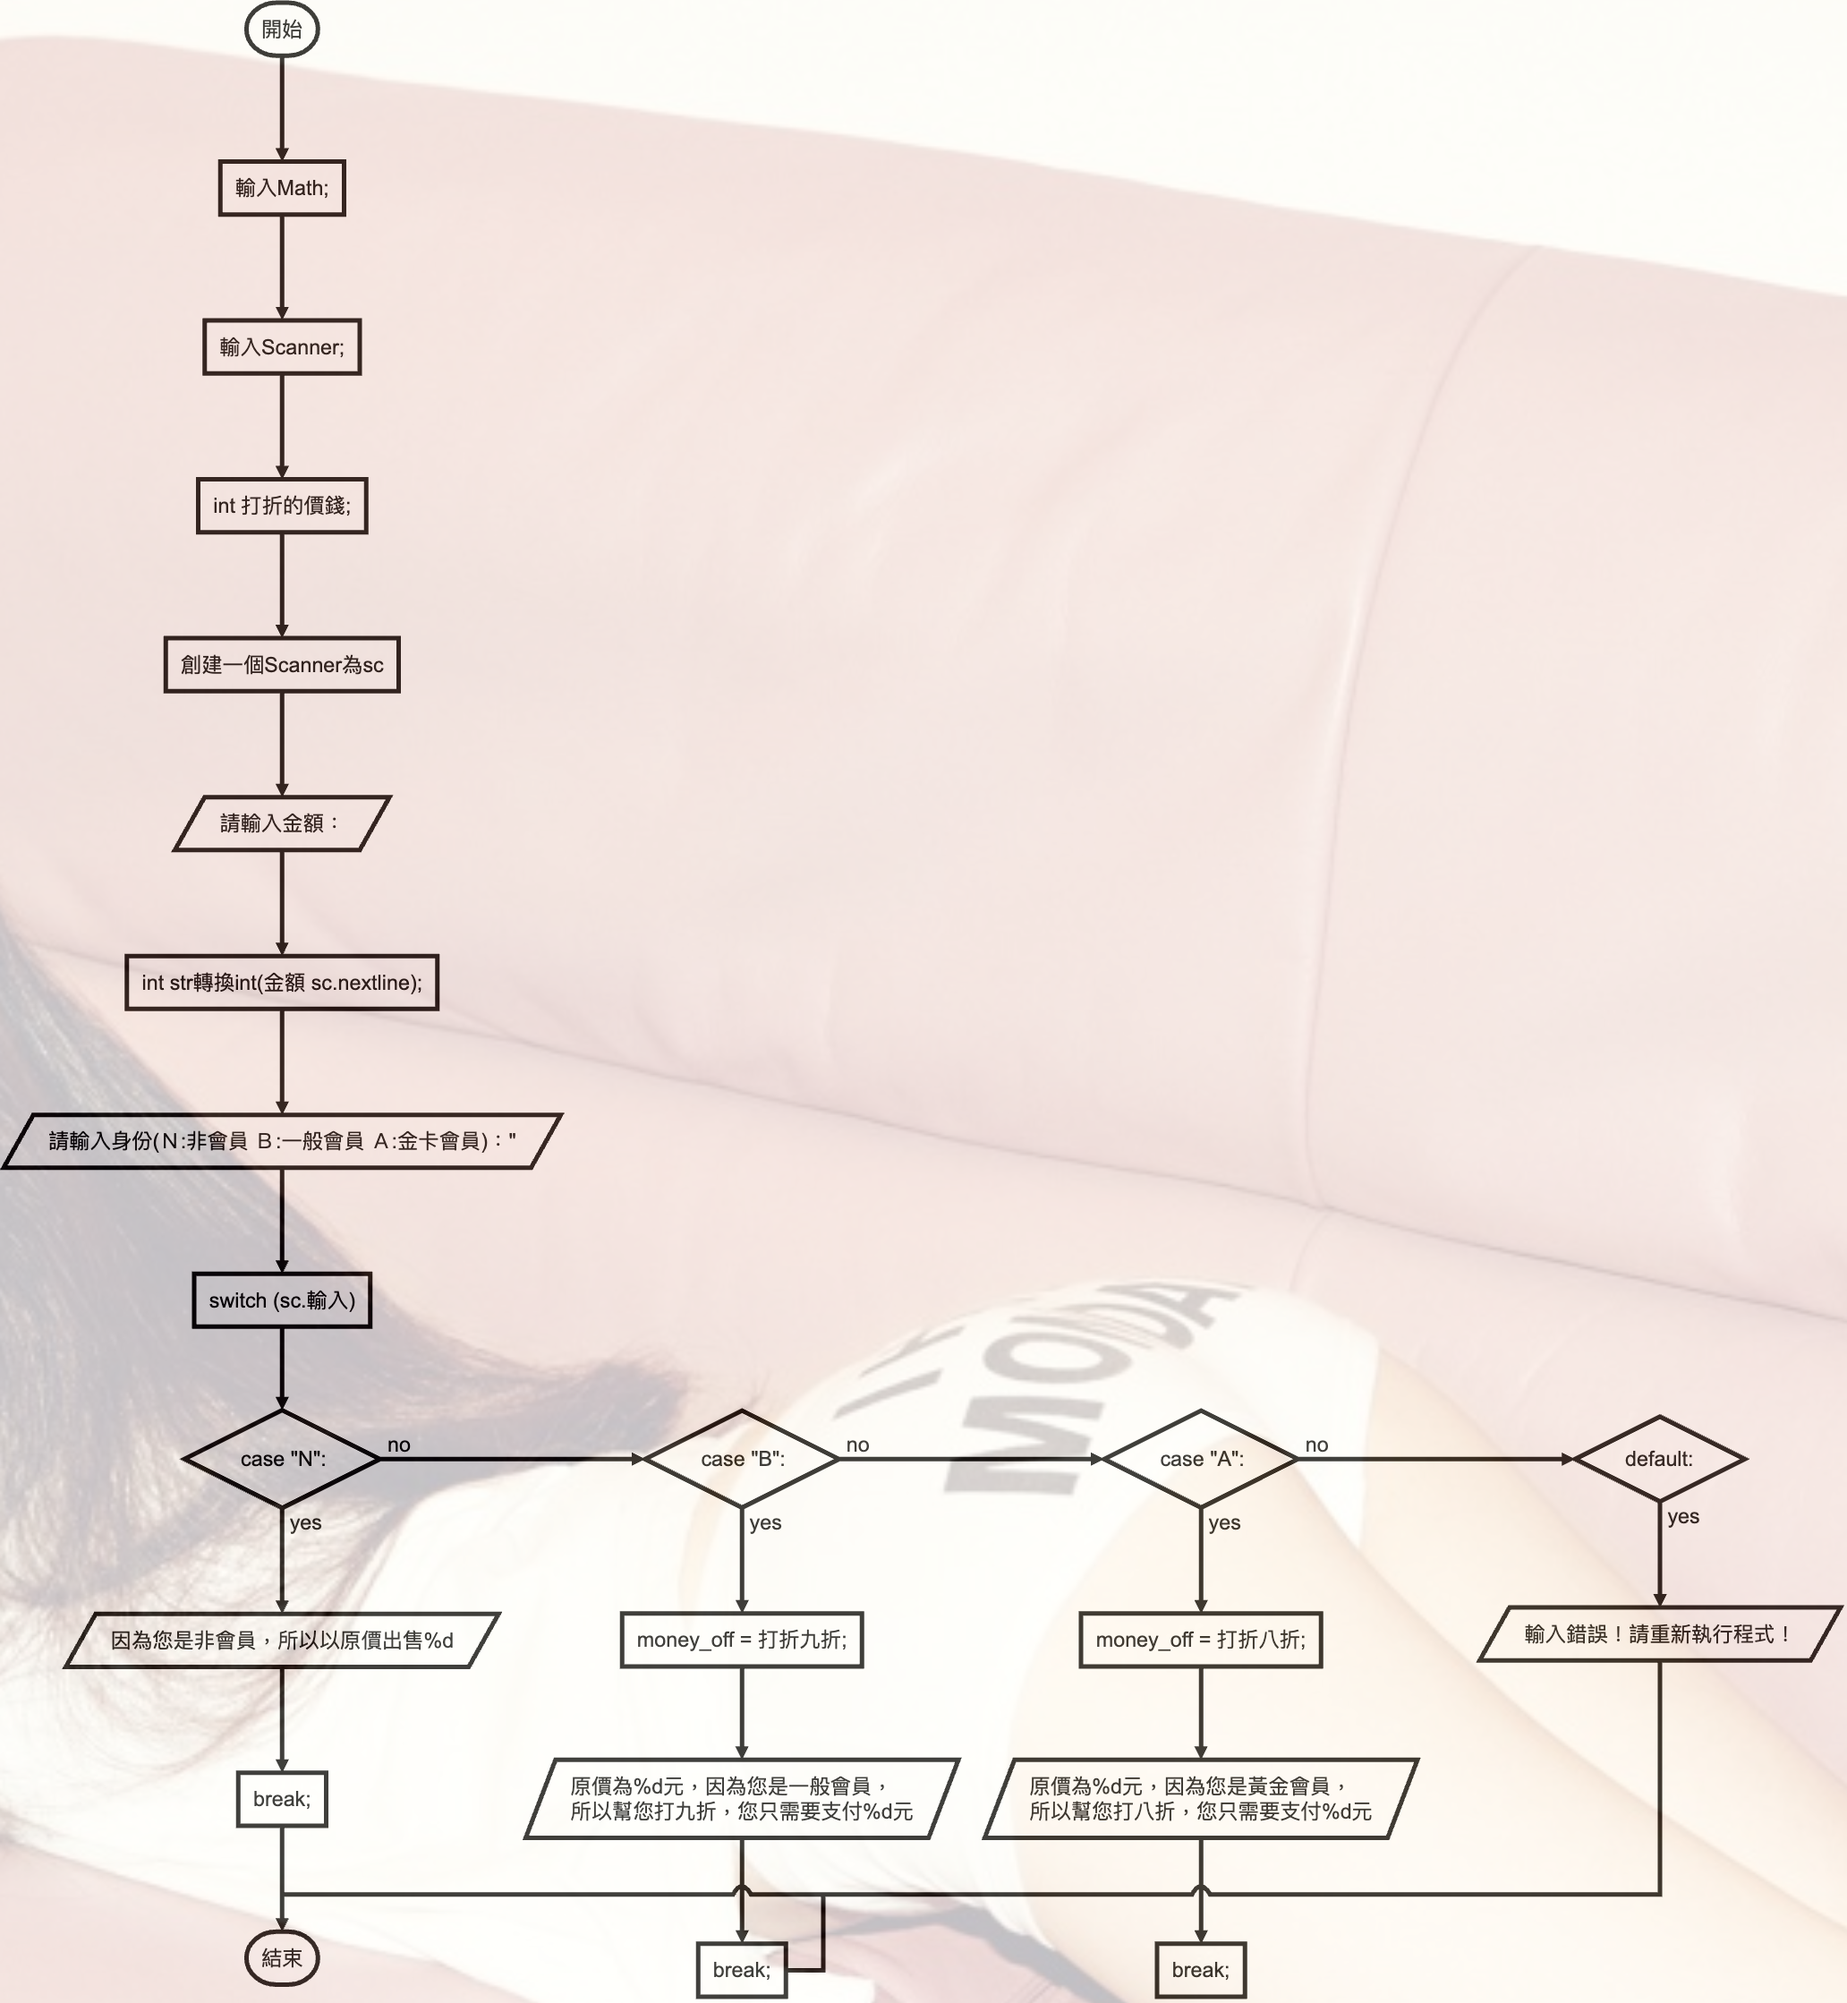
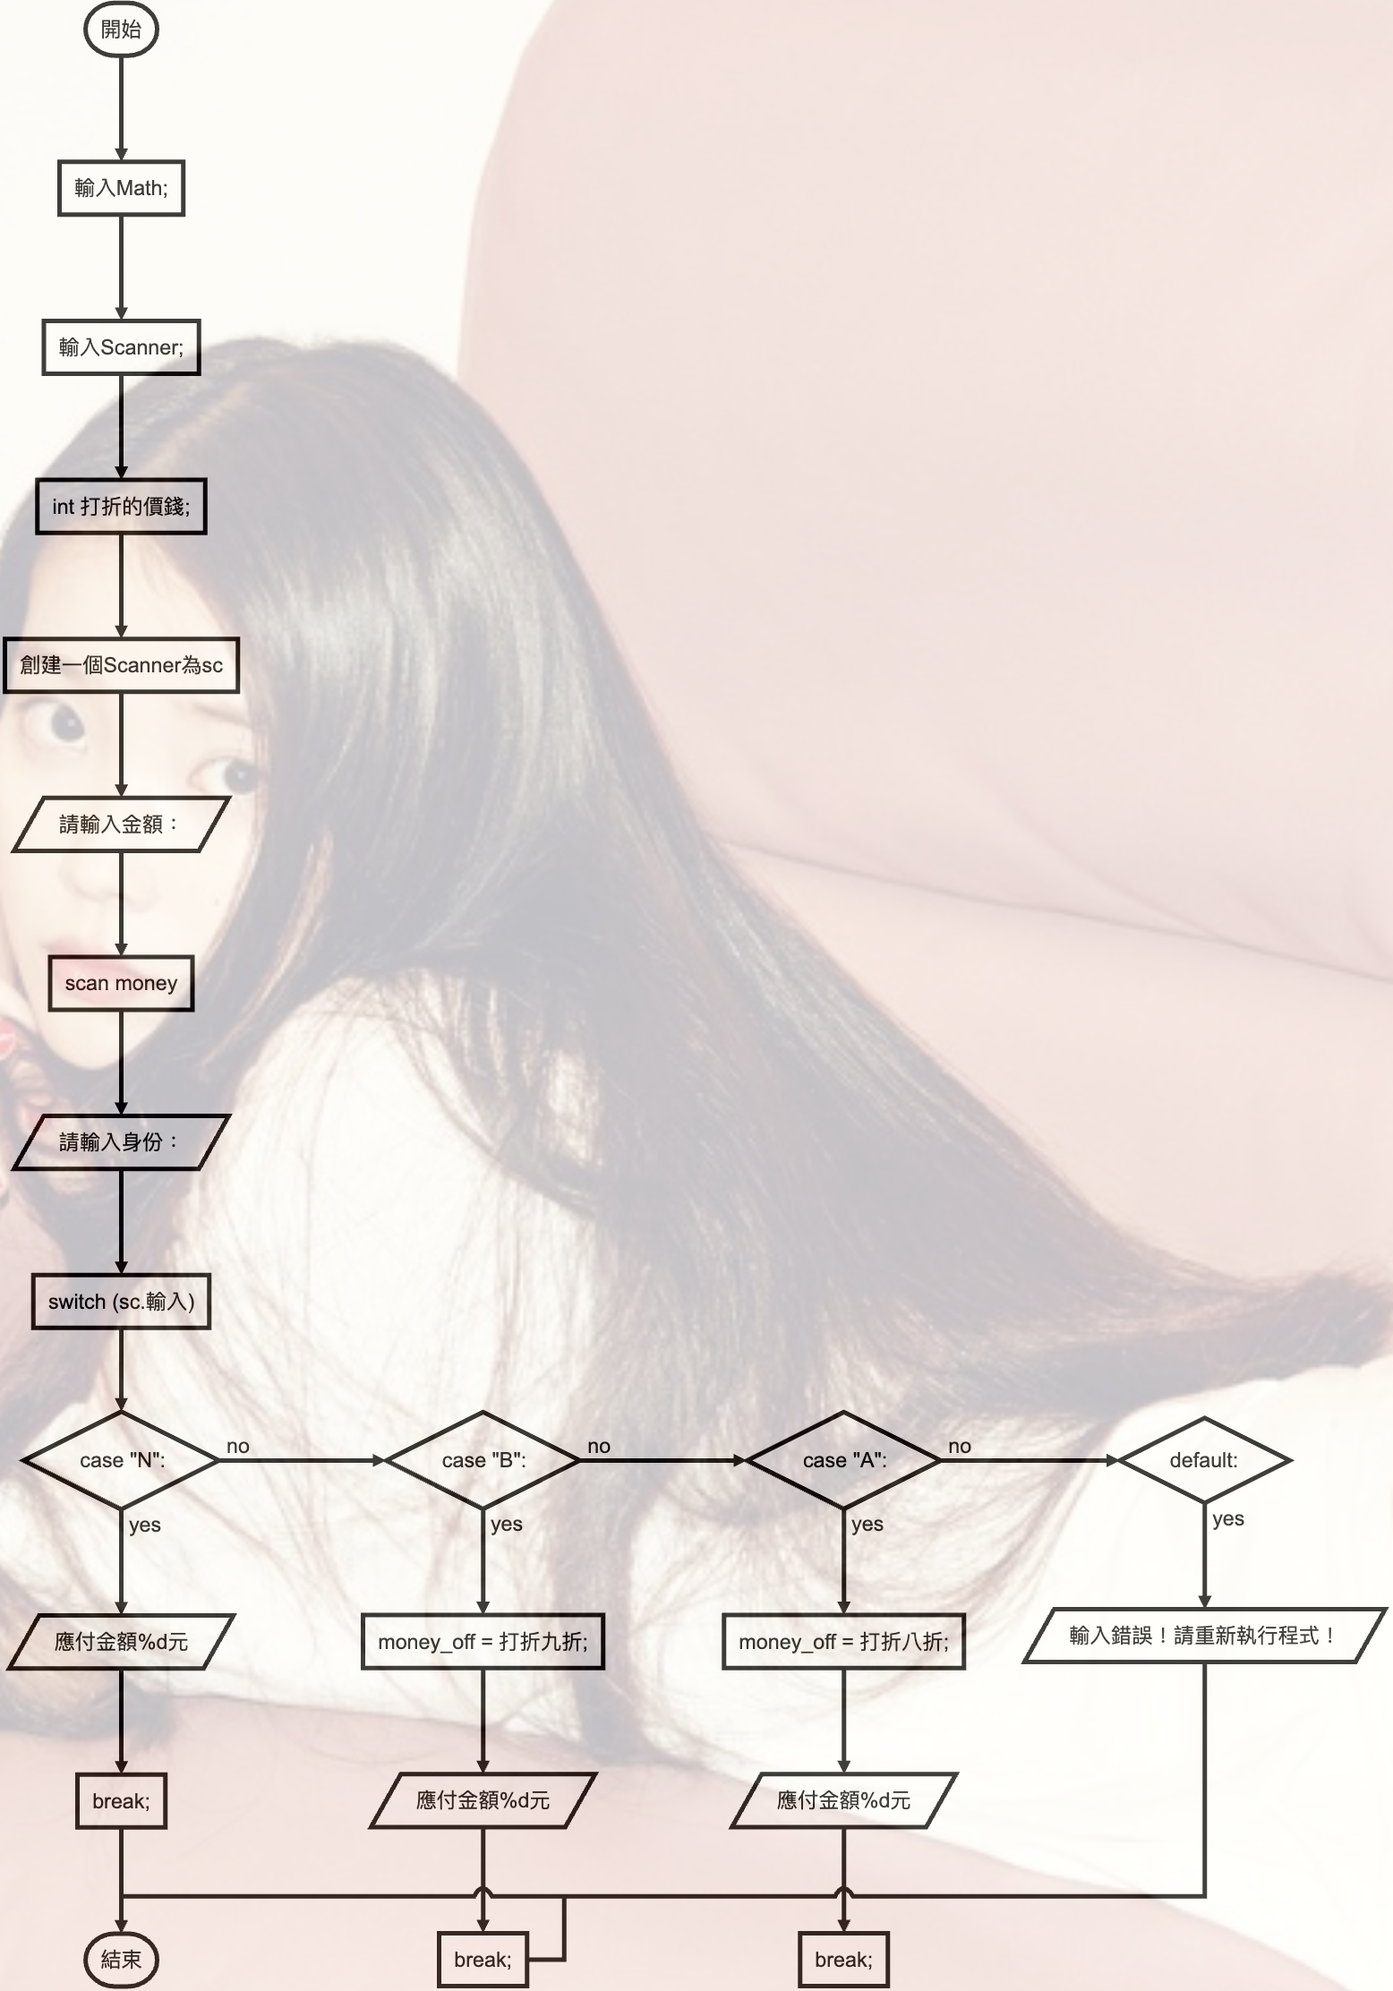
update

diff --git a/java/a020.java b/java/a020.java
@@ -1,0 +1,54 @@
+import java.util.HashMap;
+import java.util.Scanner;
+
+public class a020 {
+    public static void main(String[] args) {
+        Scanner sc = new Scanner(System.in);
+        HashMap<String, Integer> dict = new HashMap<>();
+        dict.put("A", 10);
+        dict.put("B", 11);
+        dict.put("C", 12);
+        dict.put("D", 13);
+        dict.put("E", 14);
+        dict.put("F", 15);
+        dict.put("G", 16);
+        dict.put("H", 17);
+        dict.put("I", 34);
+        dict.put("J", 18);
+        dict.put("K", 19);
+        dict.put("L", 20);
+        dict.put("M", 21);
+        dict.put("N", 22);
+        dict.put("O", 35);
+        dict.put("P", 23);
+        dict.put("Q", 24);
+        dict.put("R", 25);
+        dict.put("S", 26);
+        dict.put("T", 27);
+        dict.put("U", 28);
+        dict.put("V", 29);
+        dict.put("W", 32);
+        dict.put("X", 30);
+        dict.put("Y", 31);
+        dict.put("Z", 33);
+        String[] numbers = sc.nextLine().split("");
+        int ans = Integer.parseInt(String.valueOf(dict.get(numbers[0])).split("")[0]);
+        ans += Integer.parseInt(String.valueOf(dict.get(numbers[0])).split("")[1]) * 9;
+        ans += Integer.parseInt(numbers[1]) * 8;
+        ans += Integer.parseInt(numbers[2]) * 7;
+        ans += Integer.parseInt(numbers[3]) * 6;
+        ans += Integer.parseInt(numbers[4]) * 5;
+        ans += Integer.parseInt(numbers[5]) * 4;
+        ans += Integer.parseInt(numbers[6]) * 3;
+        ans += Integer.parseInt(numbers[7]) * 2;
+        ans += Integer.parseInt(numbers[8]) * 1;
+        ans += Integer.parseInt(numbers[9]);
+        if (ans % 10 == 0){
+            System.out.println("real");
+        } else {
+            System.out.println("fake");
+        }
+        sc.close();
+    }
+
+}

diff --git a/school/java/homework_4.java b/school/java/homework_4.java
@@ -14,19 +14,19 @@ public class homework_4 {
         int money_off;
         Scanner sc = new Scanner(System.in);
         System.out.printf("請輸入金額：");
-        int money = Integer.parseInt(sc.nextLine());
-        System.out.printf("請輸入身份(Ｎ:非會員 Ｂ:一般會員 Ａ:金卡會員)：");
+        int money = sc.nextInt();
+        System.out.printf("請輸入身份：");
         switch (sc.nextLine()) {
             case "N":
-                System.out.printf("因為您是非會員，所以以原價出售%d", money);
+                System.out.printf("應付金額%d元", money);
                 break;
             case "B":
                 money_off = Math.round((float)(money * 0.9));
-                System.out.printf("原價為%d元，因為您是一般會員，幫您打九折，您只需要支付%d元", money, money_off);
+                System.out.printf("應付金額%d元", money_off);
                 break;
             case "A":
                 money_off = Math.round((float) (money * 0.8));
-                System.out.printf("原價為%d元，因為您是黃金會員，幫您打八折，您只需要支付%d元", money, money_off);
+                System.out.printf("應付金額%d元", money_off);
                 break;
             default:
                 System.out.println("輸入錯誤！請重新執行程式！");

diff --git a/java/a015.java b/java/a015.java
@@ -1,0 +1,21 @@
+import java.util.Scanner;
+
+public class a015 {
+    public static void main(String[] args) {
+        Scanner input = new Scanner(System.in);
+        while (input.hasNext()) {
+            int a = input.nextInt();
+            int b = input.nextInt();
+            int A[][] = new int[a][b];
+            for (int i = 0; i < a; i++)
+                for (int j = 0; j < b; j++)
+                    A[i][j] = input.nextInt();
+            for (int i = 0; i < b; i++) {
+                for (int j = 0; j < a; j++)
+                    System.out.print(A[j][i] + " ");
+                System.out.println();
+            }
+        }
+        input.close();
+    }
+}

diff --git a/java/a021.java b/java/a021.java
@@ -1,0 +1,16 @@
+import java.util.Scanner;
+import java.math.BigInteger;
+
+public class a021 {
+    public static void main(String[] args) {
+        Scanner sc = new Scanner(System.in);
+        BigInteger a = new BigInteger(sc.next());
+        String symbol = sc.next();
+        BigInteger b = new BigInteger(sc.next());
+        if (symbol.equals("+"))System.out.println(a.add(b));
+        if (symbol.equals("-"))System.out.println(a.subtract(b));
+        if (symbol.equals("*"))System.out.println(a.multiply(b));
+        if (symbol.equals("/"))System.out.println(a.divide(b));
+        sc.close();
+    }
+}

diff --git a/java/a013.java b/java/a013.java
@@ -1,7 +1,6 @@
 import java.lang.Math;
 import java.util.Scanner;
 import java.util.HashMap;
-import java.util.Hashtable;
 
 public class a013 {
     public static int to_str(String str) {

diff --git a/school/java/README.md b/school/java/README.md
@@ -24,21 +24,19 @@ start=>start: 開始
 14=>operation: int 打折的價錢;
 15=>operation: 創建一個Scanner為sc
 16=>inputoutput: 請輸入金額：
-17=>operation: int  str轉換int(金額 sc.nextline);
-18=>inputoutput: 請輸入身份(Ｎ:非會員 Ｂ:一般會員 Ａ:金卡會員)："
+17=>operation: scan money
+18=>inputoutput: 請輸入身份：
 19=>operation: switch (sc.輸入) 
 20=>condition: case "N":
-21=>inputoutput: 因為您是非會員，所以以原價出售%d
+21=>inputoutput: 應付金額%d元
 22=>operation: break;
 23=>condition: case "B":
 24=>operation: money_off = 打折九折;
-25=>inputoutput: 原價為%d元，因為您是一般會員，
-所以幫您打九折，您只需要支付%d元
+25=>inputoutput: 應付金額%d元
 26=>operation: break;
 27=>condition: case "A":
 28=>operation: money_off = 打折八折;
-29=>inputoutput: 原價為%d元，因為您是黃金會員，
-所以幫您打八折，您只需要支付%d元
+29=>inputoutput: 應付金額%d元
 30=>operation: break;
 31=>condition: default:
 32=>inputoutput: 輸入錯誤！請重新執行程式！
@@ -72,19 +70,19 @@ start->9->10->14->15->16->17->18->19->20(no)->23(no)->27(no)->31(yes)->32->end
             int money_off;
             Scanner sc = new Scanner(System.in);
             System.out.printf("請輸入金額：");
-            int money = Integer.parseInt(sc.nextLine());
-            System.out.printf("請輸入身份(Ｎ:非會員 Ｂ:一般會員 Ａ:金卡會員)：");
+            int money = sc.nextInt();
+            System.out.printf("請輸入身份：");
             switch (sc.nextLine()) {
                 case "N":
-                    System.out.printf("因為您是非會員，所以以原價出售%d", money);
+                    System.out.printf("應付金額%d元", money);
                     break;
                 case "B":
                     money_off = Math.round((float)(money * 0.9));
-                    System.out.printf("原價為%d元，因為您是一般會員，幫您打九折，您只需要支付%d元", money, money_off);
+                    System.out.printf("應付金額%d元", money_off);
                     break;
                 case "A":
                     money_off = Math.round((float) (money * 0.8));
-                    System.out.printf("原價為%d元，因為您是黃金會員，幫您打八折，您只需要支付%d元", money, money_off);
+                    System.out.printf("應付金額%d元", money_off);
                     break;
                 default:
                     System.out.println("輸入錯誤！請重新執行程式！");

diff --git a/school/java/homework_4.md b/school/java/homework_4.md
@@ -24,21 +24,19 @@ start=>start: 開始
 14=>operation: int 打折的價錢;
 15=>operation: 創建一個Scanner為sc
 16=>inputoutput: 請輸入金額：
-17=>operation: int  str轉換int(金額 sc.nextline);
-18=>inputoutput: 請輸入身份(Ｎ:非會員 Ｂ:一般會員 Ａ:金卡會員)："
+17=>operation: scan money
+18=>inputoutput: 請輸入身份：
 19=>operation: switch (sc.輸入) 
 20=>condition: case "N":
-21=>inputoutput: 因為您是非會員，所以以原價出售%d
+21=>inputoutput: 應付金額%d元
 22=>operation: break;
 23=>condition: case "B":
 24=>operation: money_off = 打折九折;
-25=>inputoutput: 原價為%d元，因為您是一般會員，
-所以幫您打九折，您只需要支付%d元
+25=>inputoutput: 應付金額%d元
 26=>operation: break;
 27=>condition: case "A":
 28=>operation: money_off = 打折八折;
-29=>inputoutput: 原價為%d元，因為您是黃金會員，
-所以幫您打八折，您只需要支付%d元
+29=>inputoutput: 應付金額%d元
 30=>operation: break;
 31=>condition: default:
 32=>inputoutput: 輸入錯誤！請重新執行程式！
@@ -72,19 +70,19 @@ start->9->10->14->15->16->17->18->19->20(no)->23(no)->27(no)->31(yes)->32->end
             int money_off;
             Scanner sc = new Scanner(System.in);
             System.out.printf("請輸入金額：");
-            int money = Integer.parseInt(sc.nextLine());
-            System.out.printf("請輸入身份(Ｎ:非會員 Ｂ:一般會員 Ａ:金卡會員)：");
+            int money = sc.nextInt();
+            System.out.printf("請輸入身份：");
             switch (sc.nextLine()) {
                 case "N":
-                    System.out.printf("因為您是非會員，所以以原價出售%d", money);
+                    System.out.printf("應付金額%d元", money);
                     break;
                 case "B":
                     money_off = Math.round((float)(money * 0.9));
-                    System.out.printf("原價為%d元，因為您是一般會員，幫您打九折，您只需要支付%d元", money, money_off);
+                    System.out.printf("應付金額%d元", money_off);
                     break;
                 case "A":
                     money_off = Math.round((float) (money * 0.8));
-                    System.out.printf("原價為%d元，因為您是黃金會員，幫您打八折，您只需要支付%d元", money, money_off);
+                    System.out.printf("應付金額%d元", money_off);
                     break;
                 default:
                     System.out.println("輸入錯誤！請重新執行程式！");
